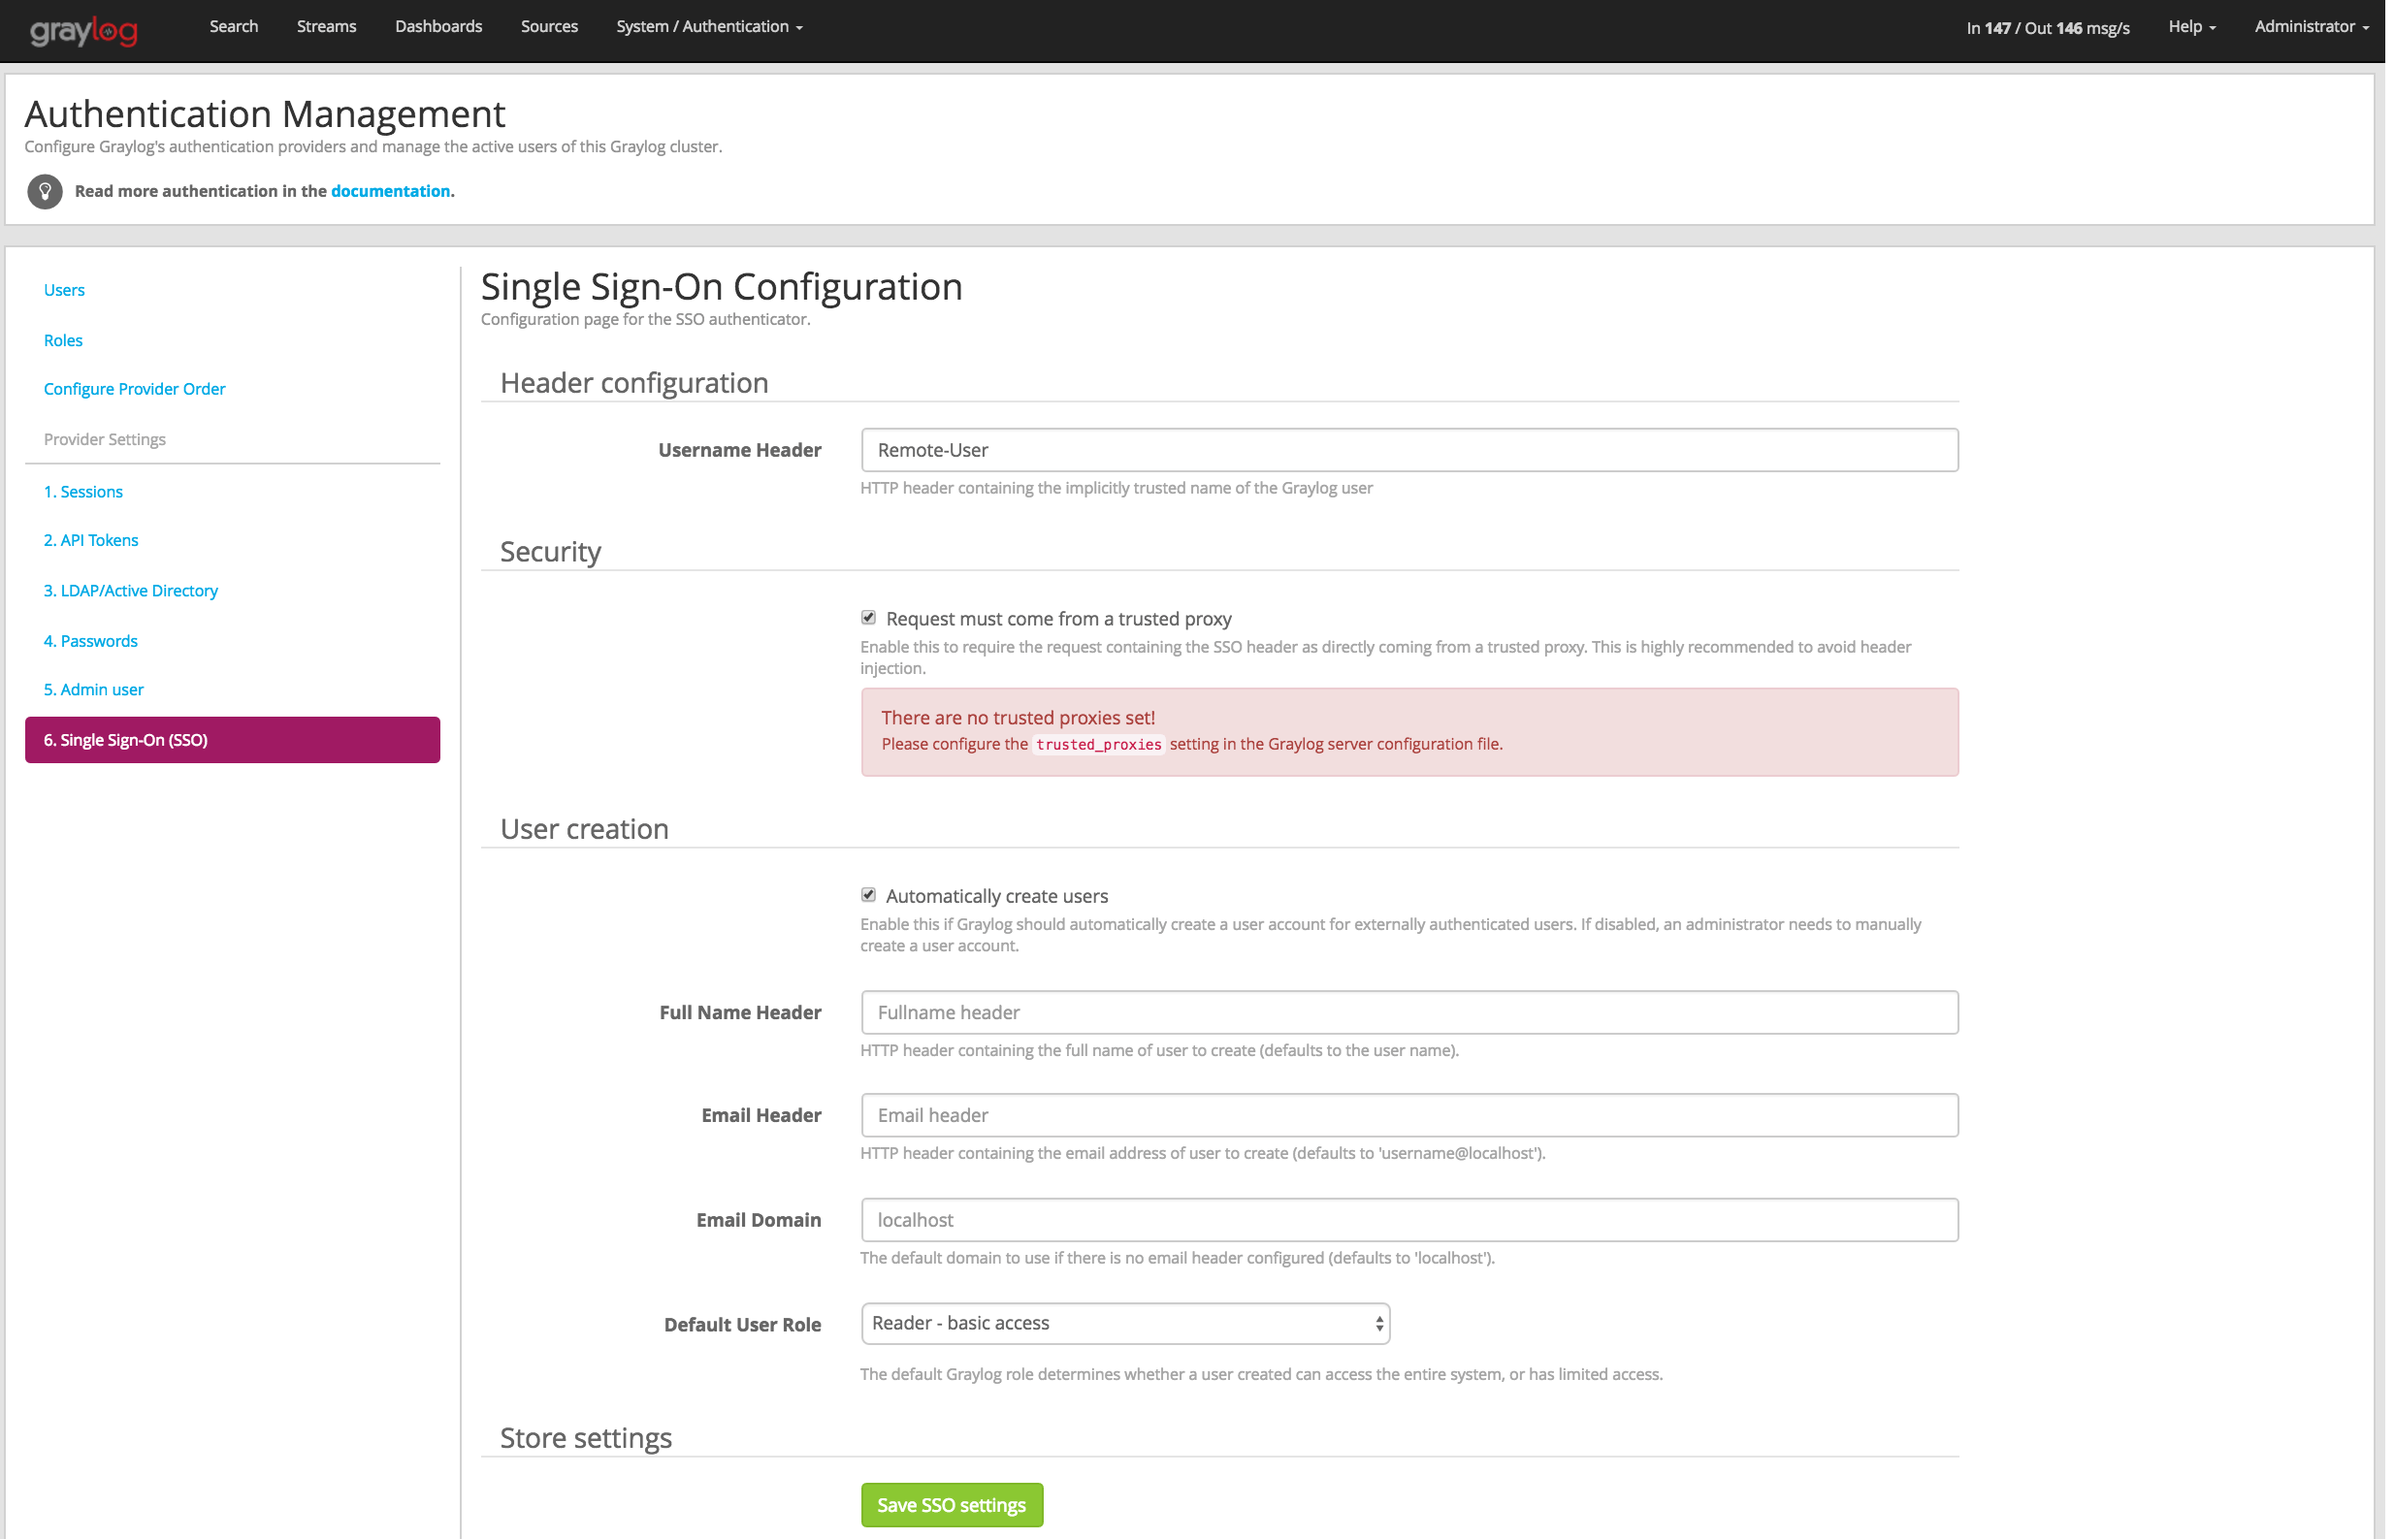
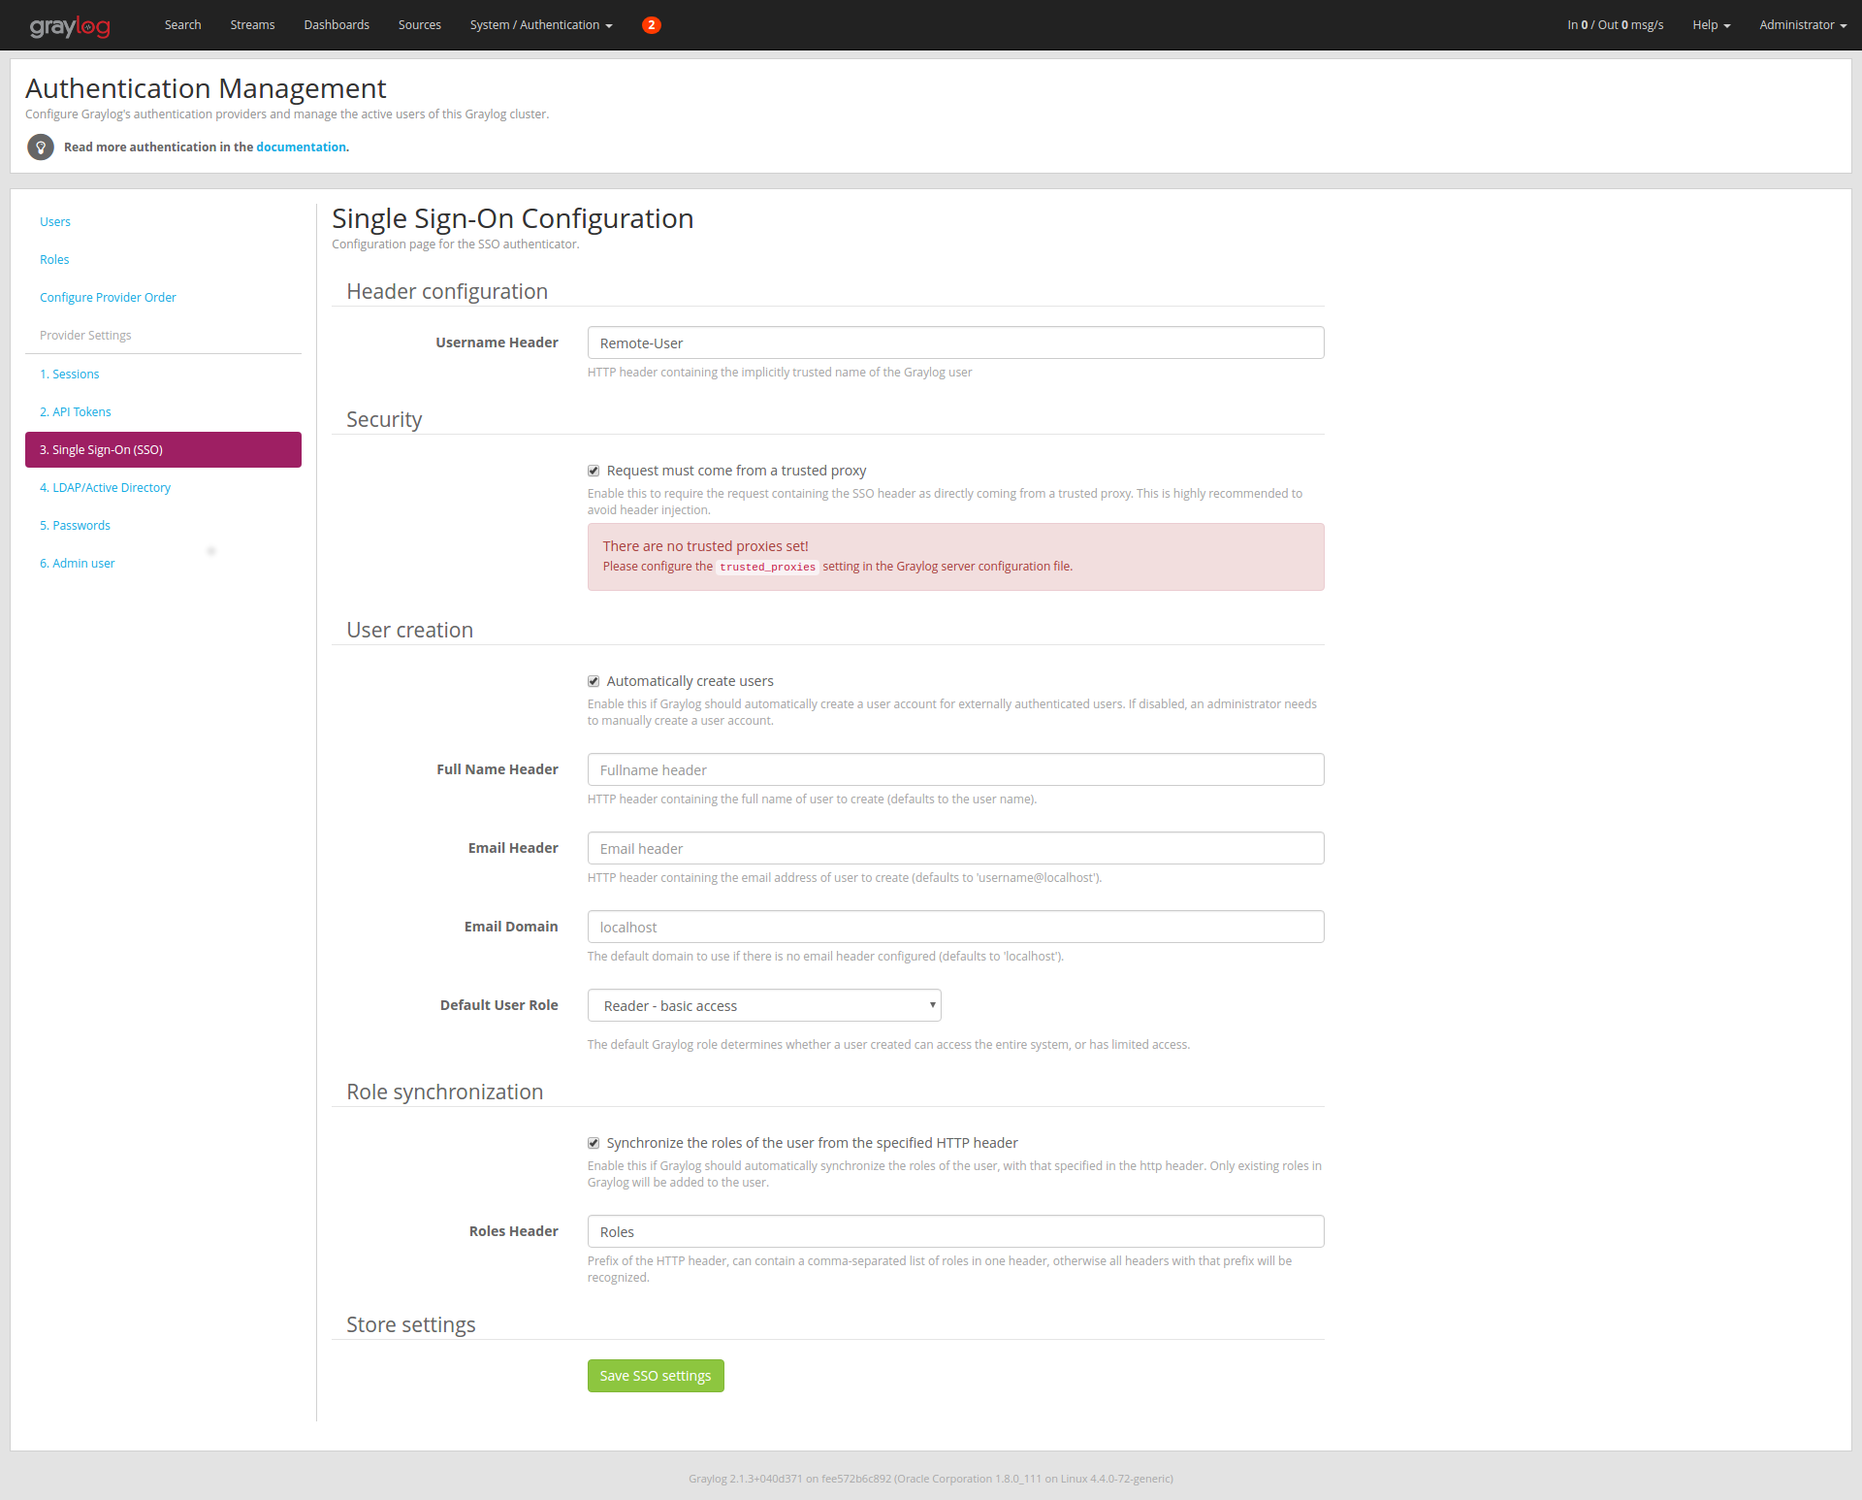
Update external_auth.rst to describe role synchronization by http headers.

diff --git a/pages/users_and_roles/external_auth.rst b/pages/users_and_roles/external_auth.rst
@@ -101,3 +101,5 @@ The HTTP request header containing the Graylog username can be configured in the
 In order to only allow trusted proxy servers to provide the Graylog username, the **Request must come from a trusted proxy** checkbox must be checked. The list of trusted proxy servers can be edited on each Graylog node in the configuration file using the `trusted_proxies <https://github.com/Graylog2/graylog2-server/blob/2.1.0/misc/graylog.conf#L124-L126>`_ configuration setting.
 
 If user accounts not existing in the Graylog user database should automatically be created on the first login, the **Automatically create user** checkbox must be checked. The automatically created users can also be customized to retrieve their full name or email address from another HTTP request header, otherwise the defaults are being used.
+
+If **Synchronize the roles of the user from the specified HTTP header** is checked, Graylog expects the roles of the user in HTTP-Headers, with a prefix configured in **Role Header** (e.g. Roles would match Roles_0, Roles_1). The header value can contain a comma-separated list of role-names. Graylog adds only already existing roles to the user. Only the roles from the header will be synchronized to the roles of the user, if the user has roles, that are not supplied in the header, they will be removed from the user.
